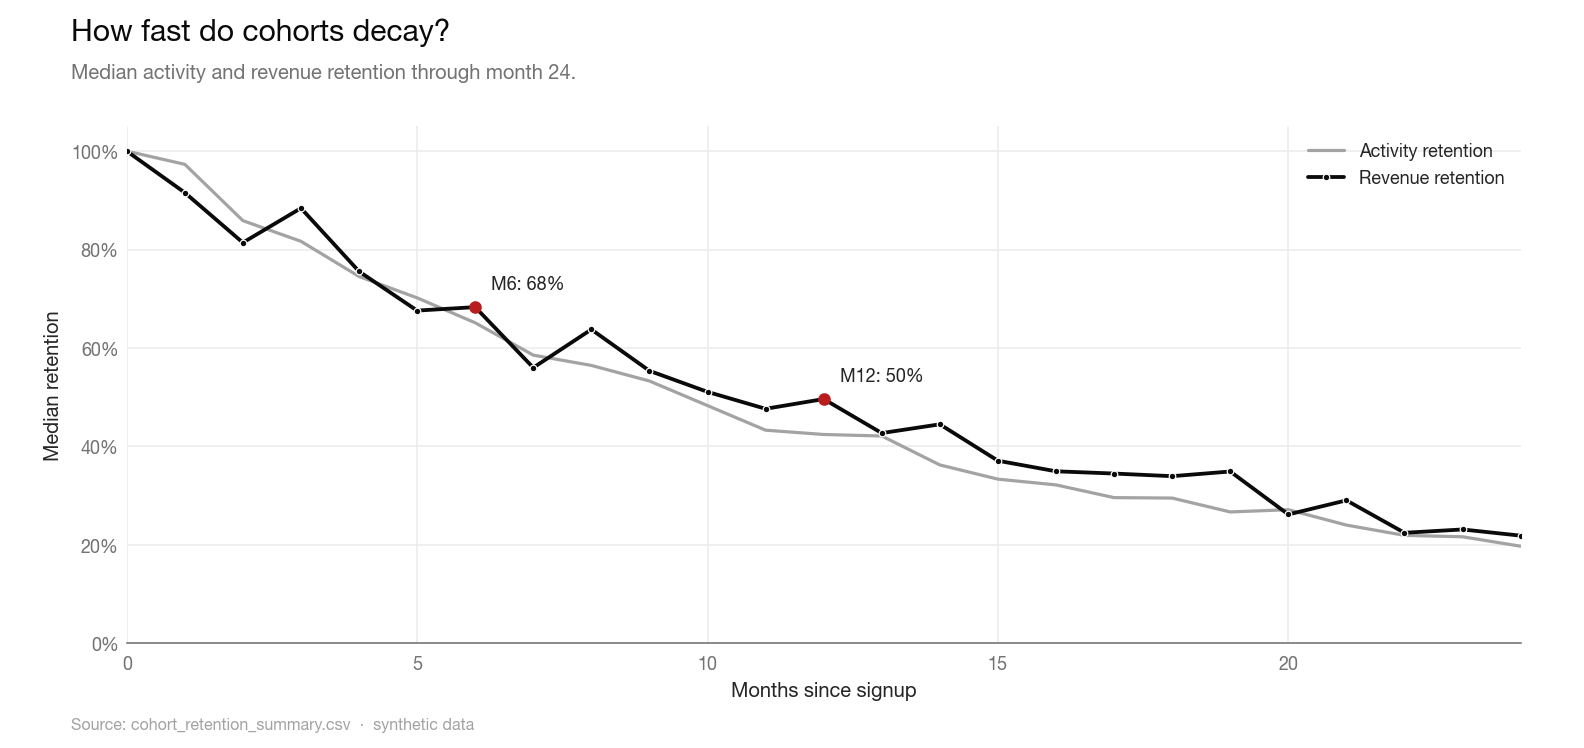
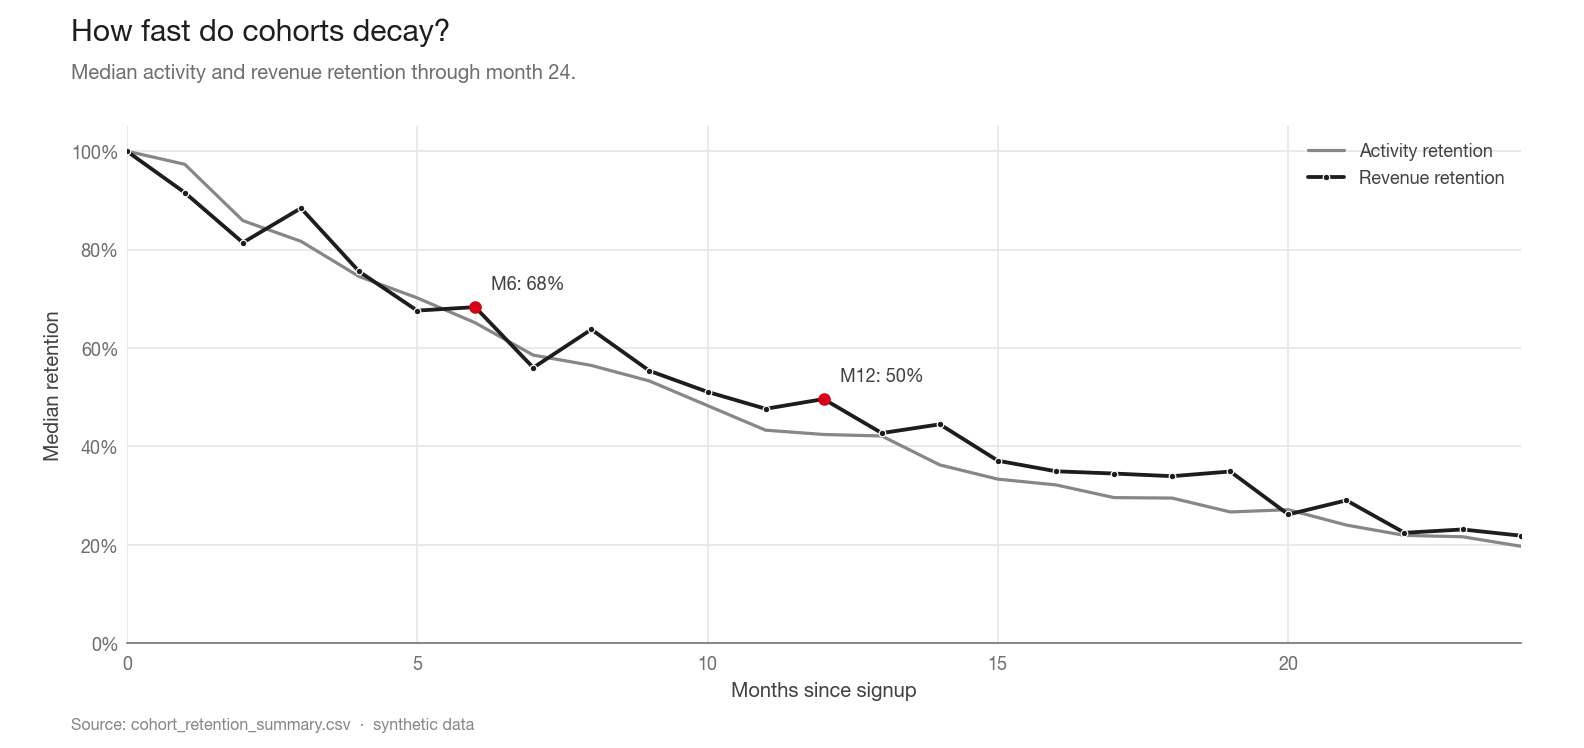
feat(charts): align the 19-chart pack with the dashboard design system
Warm ink, Apple system green/red/amber, lighter grid and surface tones,
SF Pro in the font stack — the README hero, the PDF figures, and the
dashboard now read as one product. All 19 PNGs regenerated.

diff --git a/src/visualization/build_chart_pack.py b/src/visualization/build_chart_pack.py
@@ -30,7 +30,6 @@ grade (1600 x 960 @ 144 dpi) with a uniform look across the whole pack.
 
 from __future__ import annotations
 
-import sys
 from pathlib import Path
 
 import matplotlib.pyplot as plt
@@ -39,9 +38,6 @@ import numpy as np
 import pandas as pd
 from matplotlib.axes import Axes
 from matplotlib.figure import Figure
-
-if str(Path(__file__).resolve().parents[2]) not in sys.path:
-    sys.path.append(str(Path(__file__).resolve().parents[2]))
 
 from src.governance.metric_registry import MARGIN_QUALITY_FLOOR
 from src.visualization.chart_manifest import CHART_METADATA, expected_chart_files
@@ -55,19 +51,21 @@ OUT_DIR = PROJECT_ROOT / "outputs" / "charts"
 # Style
 # ---------------------------------------------------------------------------
 
-INK = "#0a0a0a"
-INK_2 = "#262626"
-MUTED = "#737373"
-SUBTLE = "#a3a3a3"
-HAIRLINE = "#ececec"
-POSITIVE = "#15803d"
-POSITIVE_SOFT = "#86c79b"
-NEGATIVE = "#b91c1c"
-NEGATIVE_SOFT = "#e09b9b"
-WARNING = "#b45309"
-SURFACE_2 = "#fafafa"
+# Palette shared with the dashboard's Apple design language: warm near-black ink,
+# Apple system green / red / amber, neutral grays.
+INK = "#1d1d1f"
+INK_2 = "#424245"
+MUTED = "#6e6e73"
+SUBTLE = "#86868b"
+HAIRLINE = "#e6e6ea"
+POSITIVE = "#1a7f37"
+POSITIVE_SOFT = "#8fcfa3"
+NEGATIVE = "#d70015"
+NEGATIVE_SOFT = "#eaa6a6"
+WARNING = "#b25000"
+SURFACE_2 = "#f5f5f7"
 
-FONT_STACK = ["Helvetica Neue", "Helvetica", "Arial", "DejaVu Sans"]
+FONT_STACK = ["SF Pro Display", "SF Pro Text", "Helvetica Neue", "Helvetica", "Arial", "DejaVu Sans"]
 
 
 def _apply_style() -> None:
